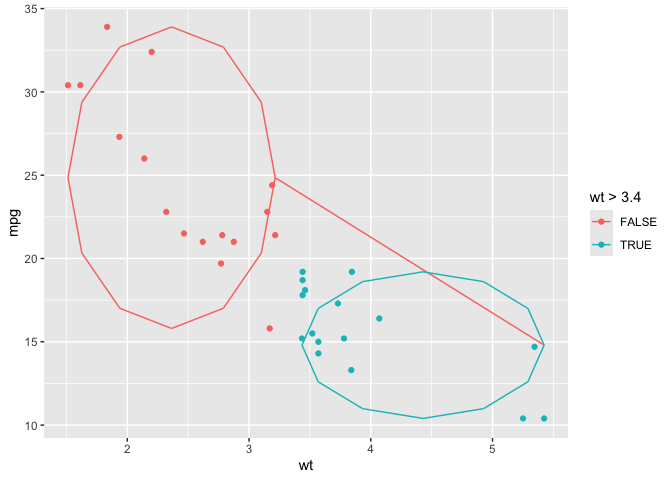
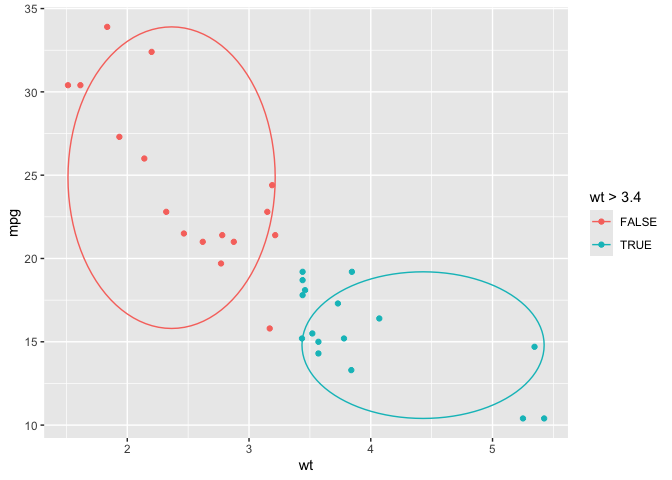
fixed the group problem w oval

diff --git a/README.md b/README.md
@@ -504,7 +504,7 @@ ggplot(cars) +
 ![](README_files/figure-gfm/unnamed-chunk-10-1.png)<!-- -->
 
 ``` r
-compute_oval_minmax <- function(data, scales, n = 12){
+compute_oval_minmax <- function(data, scales, n = 100){
   
   data |> 
     summarize(
@@ -512,7 +512,7 @@ compute_oval_minmax <- function(data, scales, n = 12){
         y0 = sum(range(y))/2,
         rx = (range(x)[2] - range(x)[1])/2 ,
         ry = (range(y)[2] - range(y)[1])/2) |>
-    mutate(group = row_number()) |> 
+    # mutate(group = row_number()) |> 
     crossing(tibble(z = 0:n)) |>
     mutate(around = 2*pi*z/max(z)) |> 
     mutate(x = x0 + cos(around)*rx,
@@ -523,22 +523,20 @@ compute_oval_minmax <- function(data, scales, n = 12){
 mtcars |>
   select(x = wt, y = mpg) |>
   compute_oval_minmax()
-#> # A tibble: 13 × 9
-#>       x0    y0    rx    ry group     z around     x     y
-#>    <dbl> <dbl> <dbl> <dbl> <int> <int>  <dbl> <dbl> <dbl>
-#>  1  3.47  22.2  1.96  11.8     1     0  0      5.42  22.2
-#>  2  3.47  22.2  1.96  11.8     1     1  0.524  5.16  28.0
-#>  3  3.47  22.2  1.96  11.8     1     2  1.05   4.45  32.3
-#>  4  3.47  22.2  1.96  11.8     1     3  1.57   3.47  33.9
-#>  5  3.47  22.2  1.96  11.8     1     4  2.09   2.49  32.3
-#>  6  3.47  22.2  1.96  11.8     1     5  2.62   1.77  28.0
-#>  7  3.47  22.2  1.96  11.8     1     6  3.14   1.51  22.2
-#>  8  3.47  22.2  1.96  11.8     1     7  3.67   1.77  16.3
-#>  9  3.47  22.2  1.96  11.8     1     8  4.19   2.49  12.0
-#> 10  3.47  22.2  1.96  11.8     1     9  4.71   3.47  10.4
-#> 11  3.47  22.2  1.96  11.8     1    10  5.24   4.45  12.0
-#> 12  3.47  22.2  1.96  11.8     1    11  5.76   5.16  16.3
-#> 13  3.47  22.2  1.96  11.8     1    12  6.28   5.42  22.1
+#> # A tibble: 101 × 8
+#>       x0    y0    rx    ry     z around     x     y
+#>    <dbl> <dbl> <dbl> <dbl> <int>  <dbl> <dbl> <dbl>
+#>  1  3.47  22.2  1.96  11.8     0 0       5.42  22.2
+#>  2  3.47  22.2  1.96  11.8     1 0.0628  5.42  22.9
+#>  3  3.47  22.2  1.96  11.8     2 0.126   5.41  23.6
+#>  4  3.47  22.2  1.96  11.8     3 0.188   5.39  24.4
+#>  5  3.47  22.2  1.96  11.8     4 0.251   5.36  25.1
+#>  6  3.47  22.2  1.96  11.8     5 0.314   5.33  25.8
+#>  7  3.47  22.2  1.96  11.8     6 0.377   5.29  26.5
+#>  8  3.47  22.2  1.96  11.8     7 0.440   5.24  27.2
+#>  9  3.47  22.2  1.96  11.8     8 0.503   5.18  27.8
+#> 10  3.47  22.2  1.96  11.8     9 0.565   5.12  28.4
+#> # ℹ 91 more rows
 
 # 2. define function
 create_layer_temp(fun_name = "geom_oval_xy_range",
@@ -558,7 +556,7 @@ ggplot(mtcars) +
 ``` r
 
 last_plot() + 
-  aes(color = wt > 3.4, group = wt > 3.4)
+   aes(color = wt > 3.4, group = wt > 3.4)
 ```
 
 ![](README_files/figure-gfm/unnamed-chunk-11-2.png)<!-- -->
